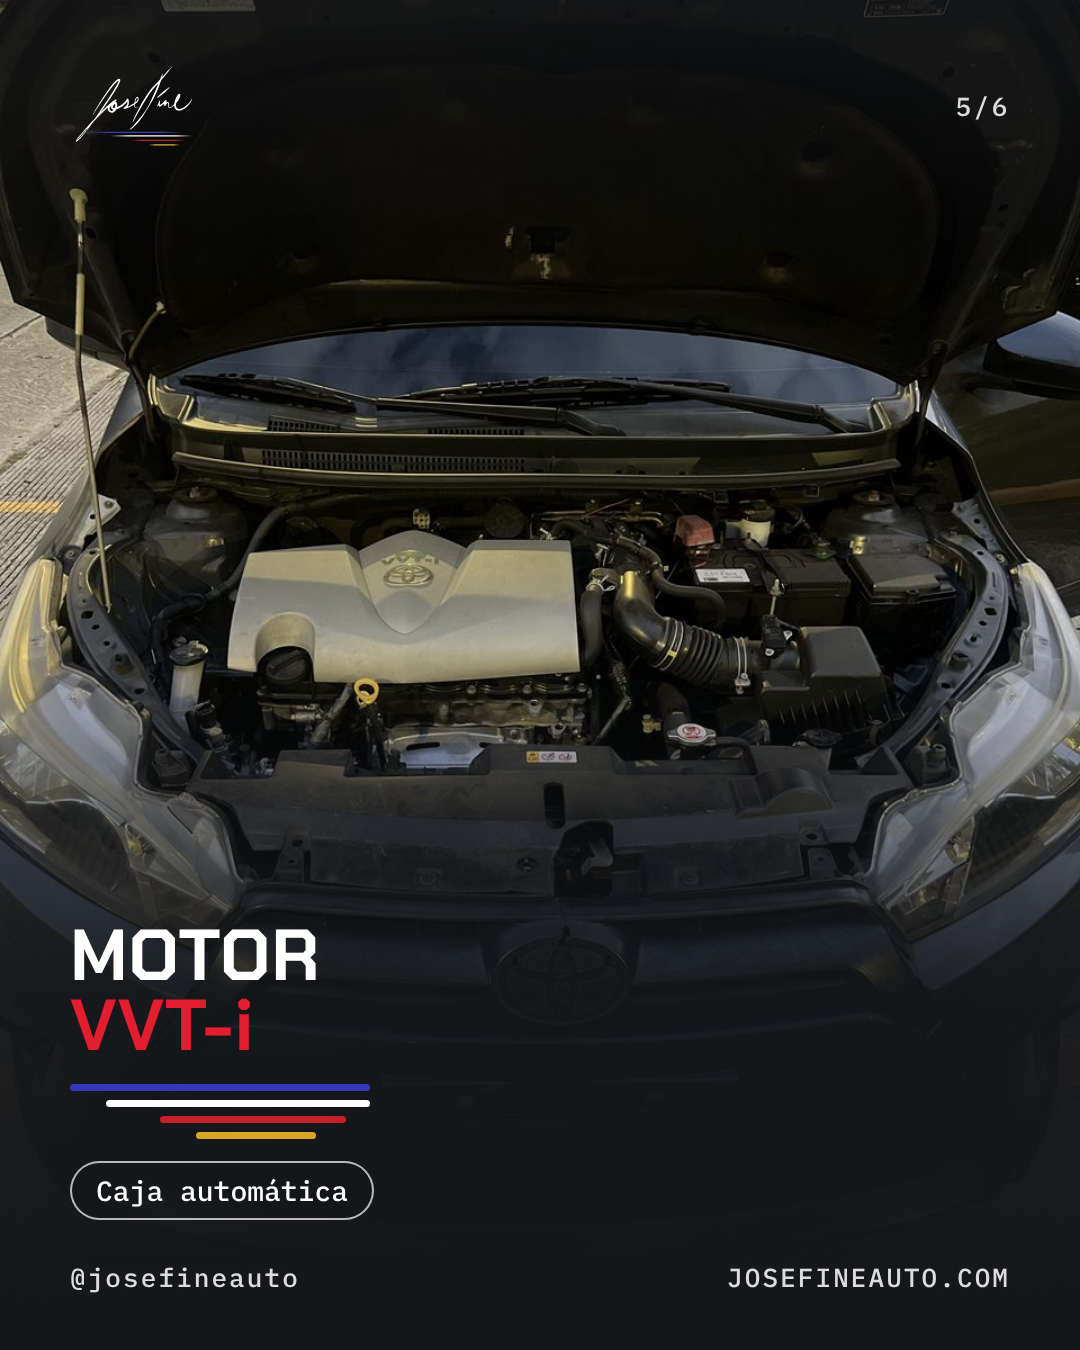
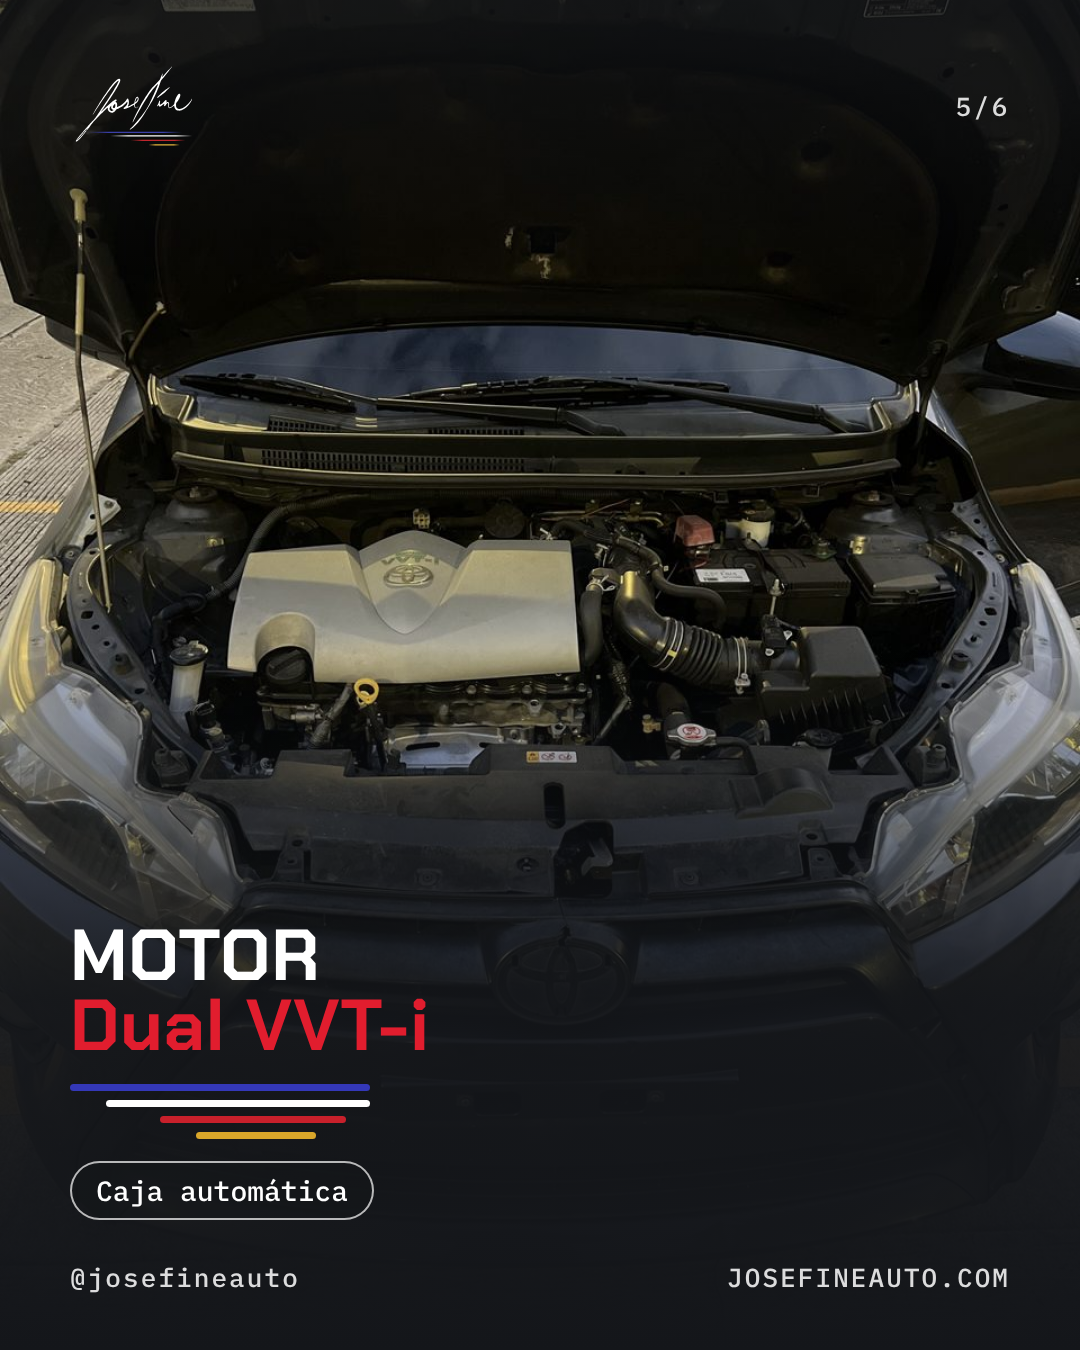
Post Yaris: motor Dual VVT-i (dato del dueño)
Claude-Session: https://claude.ai/code/session_01Waia73eHNWtSrif5AzmwHD

Changed region(s): [[0.0611, 0.7156, 0.3972, 0.7778]]

diff --git a/web/kit/index.html b/web/kit/index.html
@@ -52,7 +52,7 @@
     var WEB = "josefineauto.com";
     var POSTS = [
       { id: "post13-yaris", n: 6, semana: "HOY · En venta", titulo: "Toyota Yaris 2015",
-        texto: "EN VENTA 🔥 Toyota Yaris 2015\n\n📍 Panamá · 106,394 km · Automático · Gris\n\n✅ Hatchback 5 puertas\n✅ Versión E\n✅ Controles de audio en el volante\n✅ Motor VVT-i\n\n💬 Precio por DM\n👇 Comenta YARIS y te escribimos\n🌐 " + WEB + "\n\n#toyota #yaris #toyotayaris #autosusados #panama #josefineauto",
+        texto: "EN VENTA 🔥 Toyota Yaris 2015\n\n📍 Panamá · 106,394 km · Automático · Gris\n\n✅ Hatchback 5 puertas\n✅ Versión E\n✅ Controles de audio en el volante\n✅ Motor Dual VVT-i\n\n💬 Precio por DM\n👇 Comenta YARIS y te escribimos\n🌐 " + WEB + "\n\n#toyota #yaris #toyotayaris #autosusados #panama #josefineauto",
         nota: "Para tu historia usa la versión vertical: josefineauto.com/kit/img/post13-yaris-historia.png (mantén el dedo → Guardar imagen)." },
       { id: "post12-buscamos", n: 1, semana: "HOY · Se busca (1 imagen)", titulo: "Buscamos sedán automático 2013–2021",
         texto: "SE BUSCA 🔎 Sedán automático 2013 – 2021\n\nHyundai Accent o Elantra · Kia Rio o Cerato · Honda Civic · Toyota Yaris\n✅ Automático\n✅ Menos de 200,000 km\n\n¿Vendes el tuyo? Escríbenos al DM 💬\n🌐 " + WEB + "\n\n#josefineauto #panama #autosusados #hyundai #kia #honda #toyota\n\nFotos: Wikimedia Commons — Accent: Greg Gjerdingen (CC BY 2.0) · Elantra: SsmIntrigue (CC BY-SA 4.0) · Rio: RL GNZLZ from Chile (CC BY-SA 2.0) · Cerato: SsmIntrigue (CC BY-SA 4.0) · Civic: Cutlass (CC0) · Yaris: Ethan Llamas (CC BY-SA 4.0)",

diff --git a/herramientas/build/generar-post-yaris.js b/herramientas/build/generar-post-yaris.js
@@ -60,7 +60,7 @@ const LAMINAS = [
   `<div class="s"><div class="dos"><div style="background-image:url('${foto(5)}');background-position:35% center"></div><div style="background-image:url('${foto(6)}');background-position:60% center"></div></div><div class="velo"></div>${top(`4/${T}`)}
     <div class="txt"><div class="chips"><span>Controles en el volante</span><span>Asientos de tela</span></div></div>${pie}</div>`,
   `<div class="s"><div class="bg" style="background-image:url('${foto(8)}');background-position:center 45%"></div><div class="velo"></div>${top(`5/${T}`)}
-    <div class="txt"><h2>Motor<br><em style="text-transform:none">VVT-i</em></h2>${F}<div class="chips"><span>Caja automática</span></div></div>${pie}</div>`,
+    <div class="txt"><h2>Motor<br><em style="text-transform:none">Dual VVT-i</em></h2>${F}<div class="chips"><span>Caja automática</span></div></div>${pie}</div>`,
   `<div class="s cta">${top(`6/${T}`)}<div class="txt"><h2>¿Te interesa<br>el Yaris?</h2>${F}<p>Comenta</p><span class="comenta">YARIS</span>
     <div class="lista"><span>💬 Precio por DM</span></div></div>${pie}</div>`,
 ];
